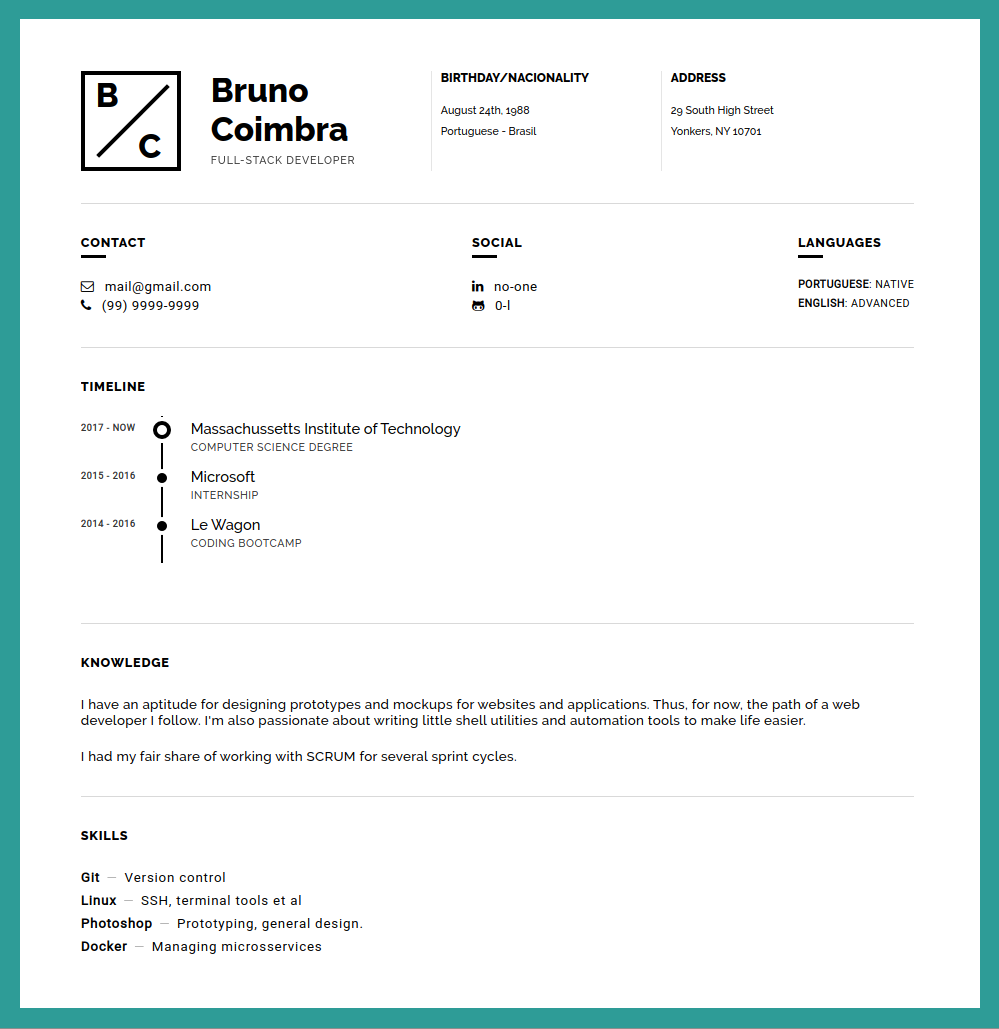
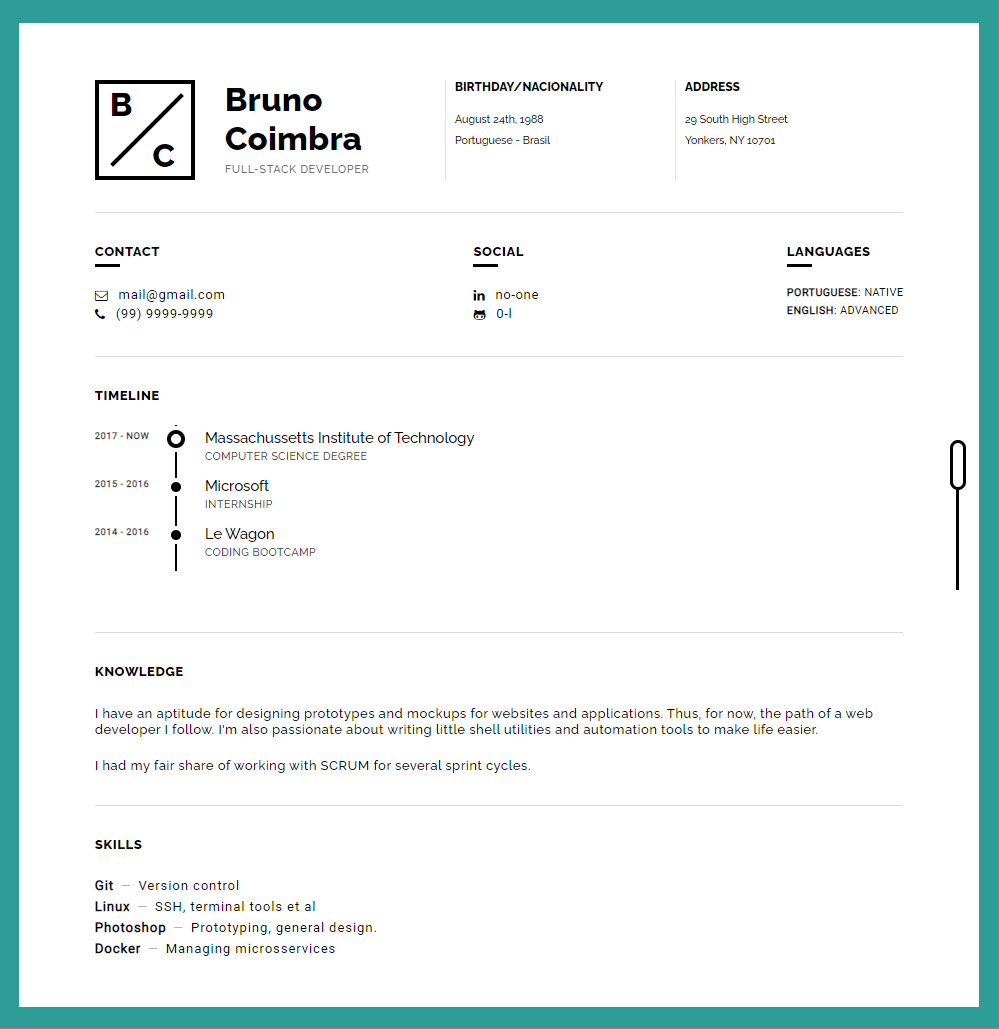
added custom scrollbar

diff --git a/lib/script.js b/lib/script.js
@@ -1,30 +1,58 @@
 window.onload = () => {
   const $ = (e) => document.querySelector(e);
 
-  const refs = {
-	header:  $('.header'),
-	name:    $('.person-name div p')
+  const refs = () => {
+	return {
+	  header:          $('.header'),
+	  name:            $('.person-name div p'),
+	  content:         $('#content'),
+	  scrollbar:       $('.scrollbar'),
+	  scrollbar_thumb: $('.scrollbar-thumb')
+	};
+  }
+
+  const templates = {
+	avatar: (name, surname) =>
+	  `<div class="avatar">
+           <p>
+				<span class="name">${name}</span>
+				<span class="surname">${surname}</span>
+           </p>
+	   </div>`,
+	scrollbar:
+		`<div class="scrollbar">
+			<div class="scrollbar-thumb"></div>
+		</div>`
   };
 
   const getInitials = () => {
-	return refs.name.innerText
+	return refs().name.innerText
 	  .split(' ')
 	  .map(x => x[0].toUpperCase());
   };
 
   const createAvatar = () => {
 	const [name, surname] = getInitials();
+	const template = templates.avatar(name, surname);
 
-	const avatar =
-	  `<div class="avatar">
-           <p>
-				<span class="name">${name}</span>
-				<span class="surname">${surname}</span>
-           </p>
-	   </div>`;
+	refs().header.insertAdjacentHTML('afterbegin', template);
+  };
 
-	refs.header.insertAdjacentHTML('afterbegin', avatar);
+  const createScrollbar = (callback) => {
+	const template = templates.scrollbar;
+
+	refs().content.insertAdjacentHTML('afterbegin', template);
+	callback(refs().scrollbar_thumb);
   };
 
   createAvatar();
+
+  createScrollbar((thumb) => {
+	refs().content.onscroll = (e) => {
+	  let { scrollTop, scrollHeight, clientHeight } = e.target;
+	  let maxScroll = scrollHeight - clientHeight;
+
+	  thumb.setAttribute('style', `top: ${(scrollTop * 100) / maxScroll}%`)
+	}
+  });
 };

diff --git a/lib/style.css b/lib/style.css
@@ -31,6 +31,7 @@ body {
 }
 
 #content {
+	position: relative;
 	padding: 1% 3% 0;
 	height: 100%;
 	margin: 0 auto;
@@ -41,7 +42,7 @@ body {
 }
 
 ::-webkit-scrollbar {
-	width: 5px;
+	width: 0;
 	background: transparent;
 }
 
@@ -330,4 +331,33 @@ body {
 
 .knowledge p:not(:last-child) {
 	margin-bottom: 20px;
+}
+
+.scrollbar {
+    height: 150px;
+    position: absolute;
+    background: black;
+    width: 3px;
+    bottom: 0;
+    top: 0;
+    right: 20px;
+    margin: auto;
+}
+
+.scrollbar .scrollbar-thumb {
+	--outline: #000;
+    background: white;
+    width: 5px;
+    height: 50px;
+    box-shadow: inset 0 0 0 3px var(--outline);
+    border-radius: 40px;
+    padding: 8px;
+    right: 6px;
+    position: relative;
+	cursor: pointer;
+	transition: box-shadow .2s;
+}
+
+.scrollbar .scrollbar-thumb:hover {
+	--outline: var(--accent);
 }
